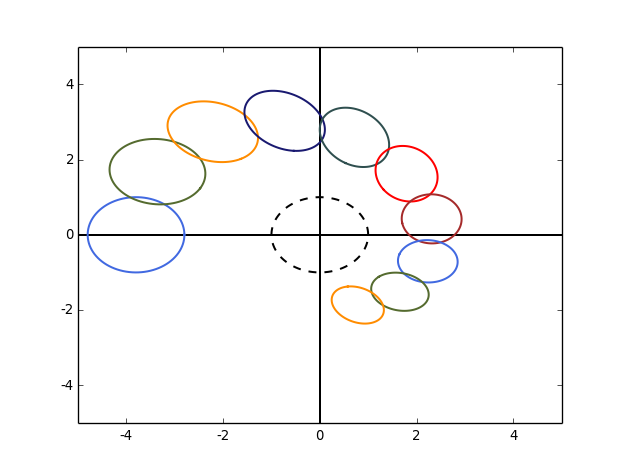
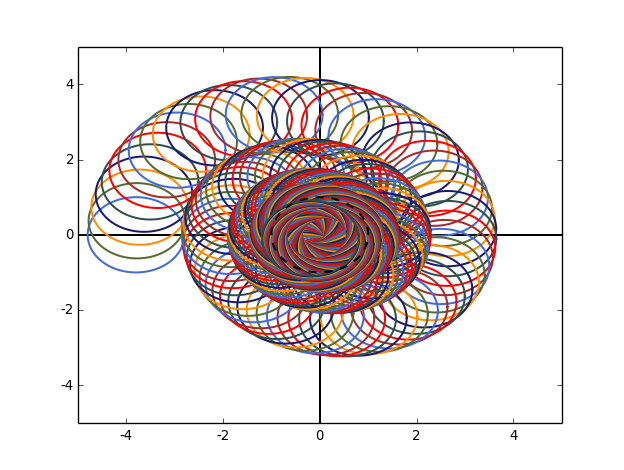
Trippy phase diagram

Changed region(s): [[0.1218, 0.1489, 0.8221, 0.7745]]

diff --git a/experiments/2015_02_23_gaussian_phase_diagrams/1/experiment.py b/experiments/2015_02_23_gaussian_phase_diagrams/1/experiment.py
@@ -5,12 +5,12 @@ def run():
     epsilon = 0.05
     x_scale = 1.0
     x_init = -3.8
-    decay_rate = 0.3
-    N_steps = 100
+    decay_rate = 3.0
+    N_steps = 500
     lim = 5.0
-    thin = 10
-    # updater = gaussian_hmc_update
-    updater = gaussian_aed_update
+    thin = 2
+    updater = gaussian_hmc_update
+     # updater = gaussian_aed_update
 
     mu = np.array([x_init, 0.0])
     inv_chol = np.array([[x_scale, 0.0],[0.0, 1.0]])
